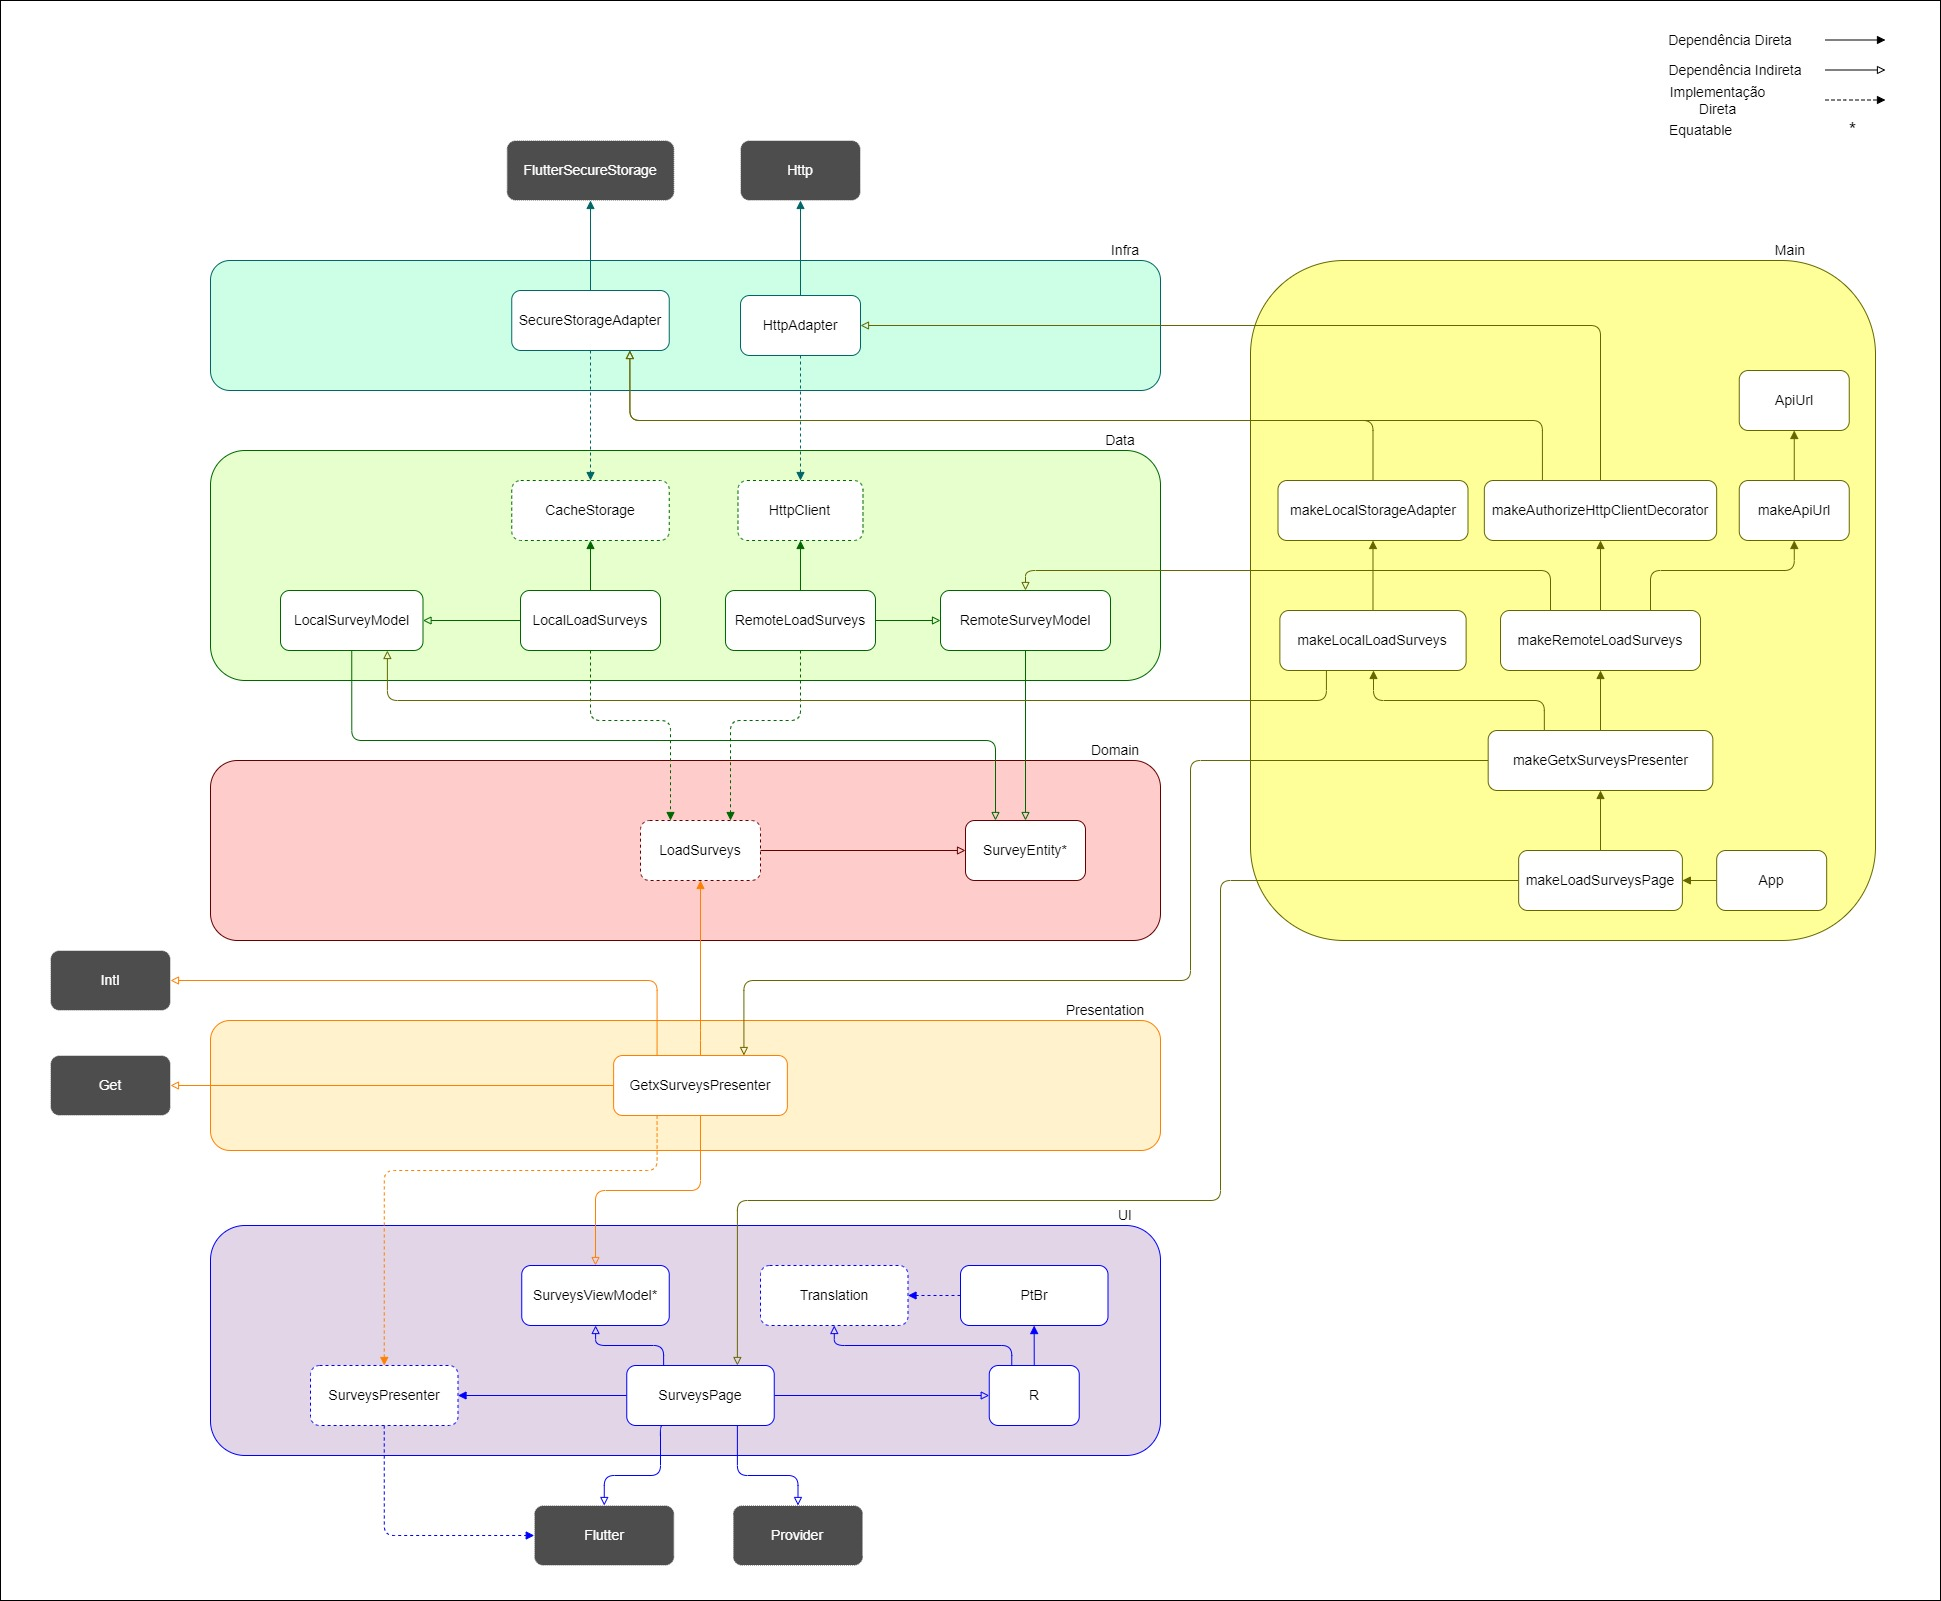
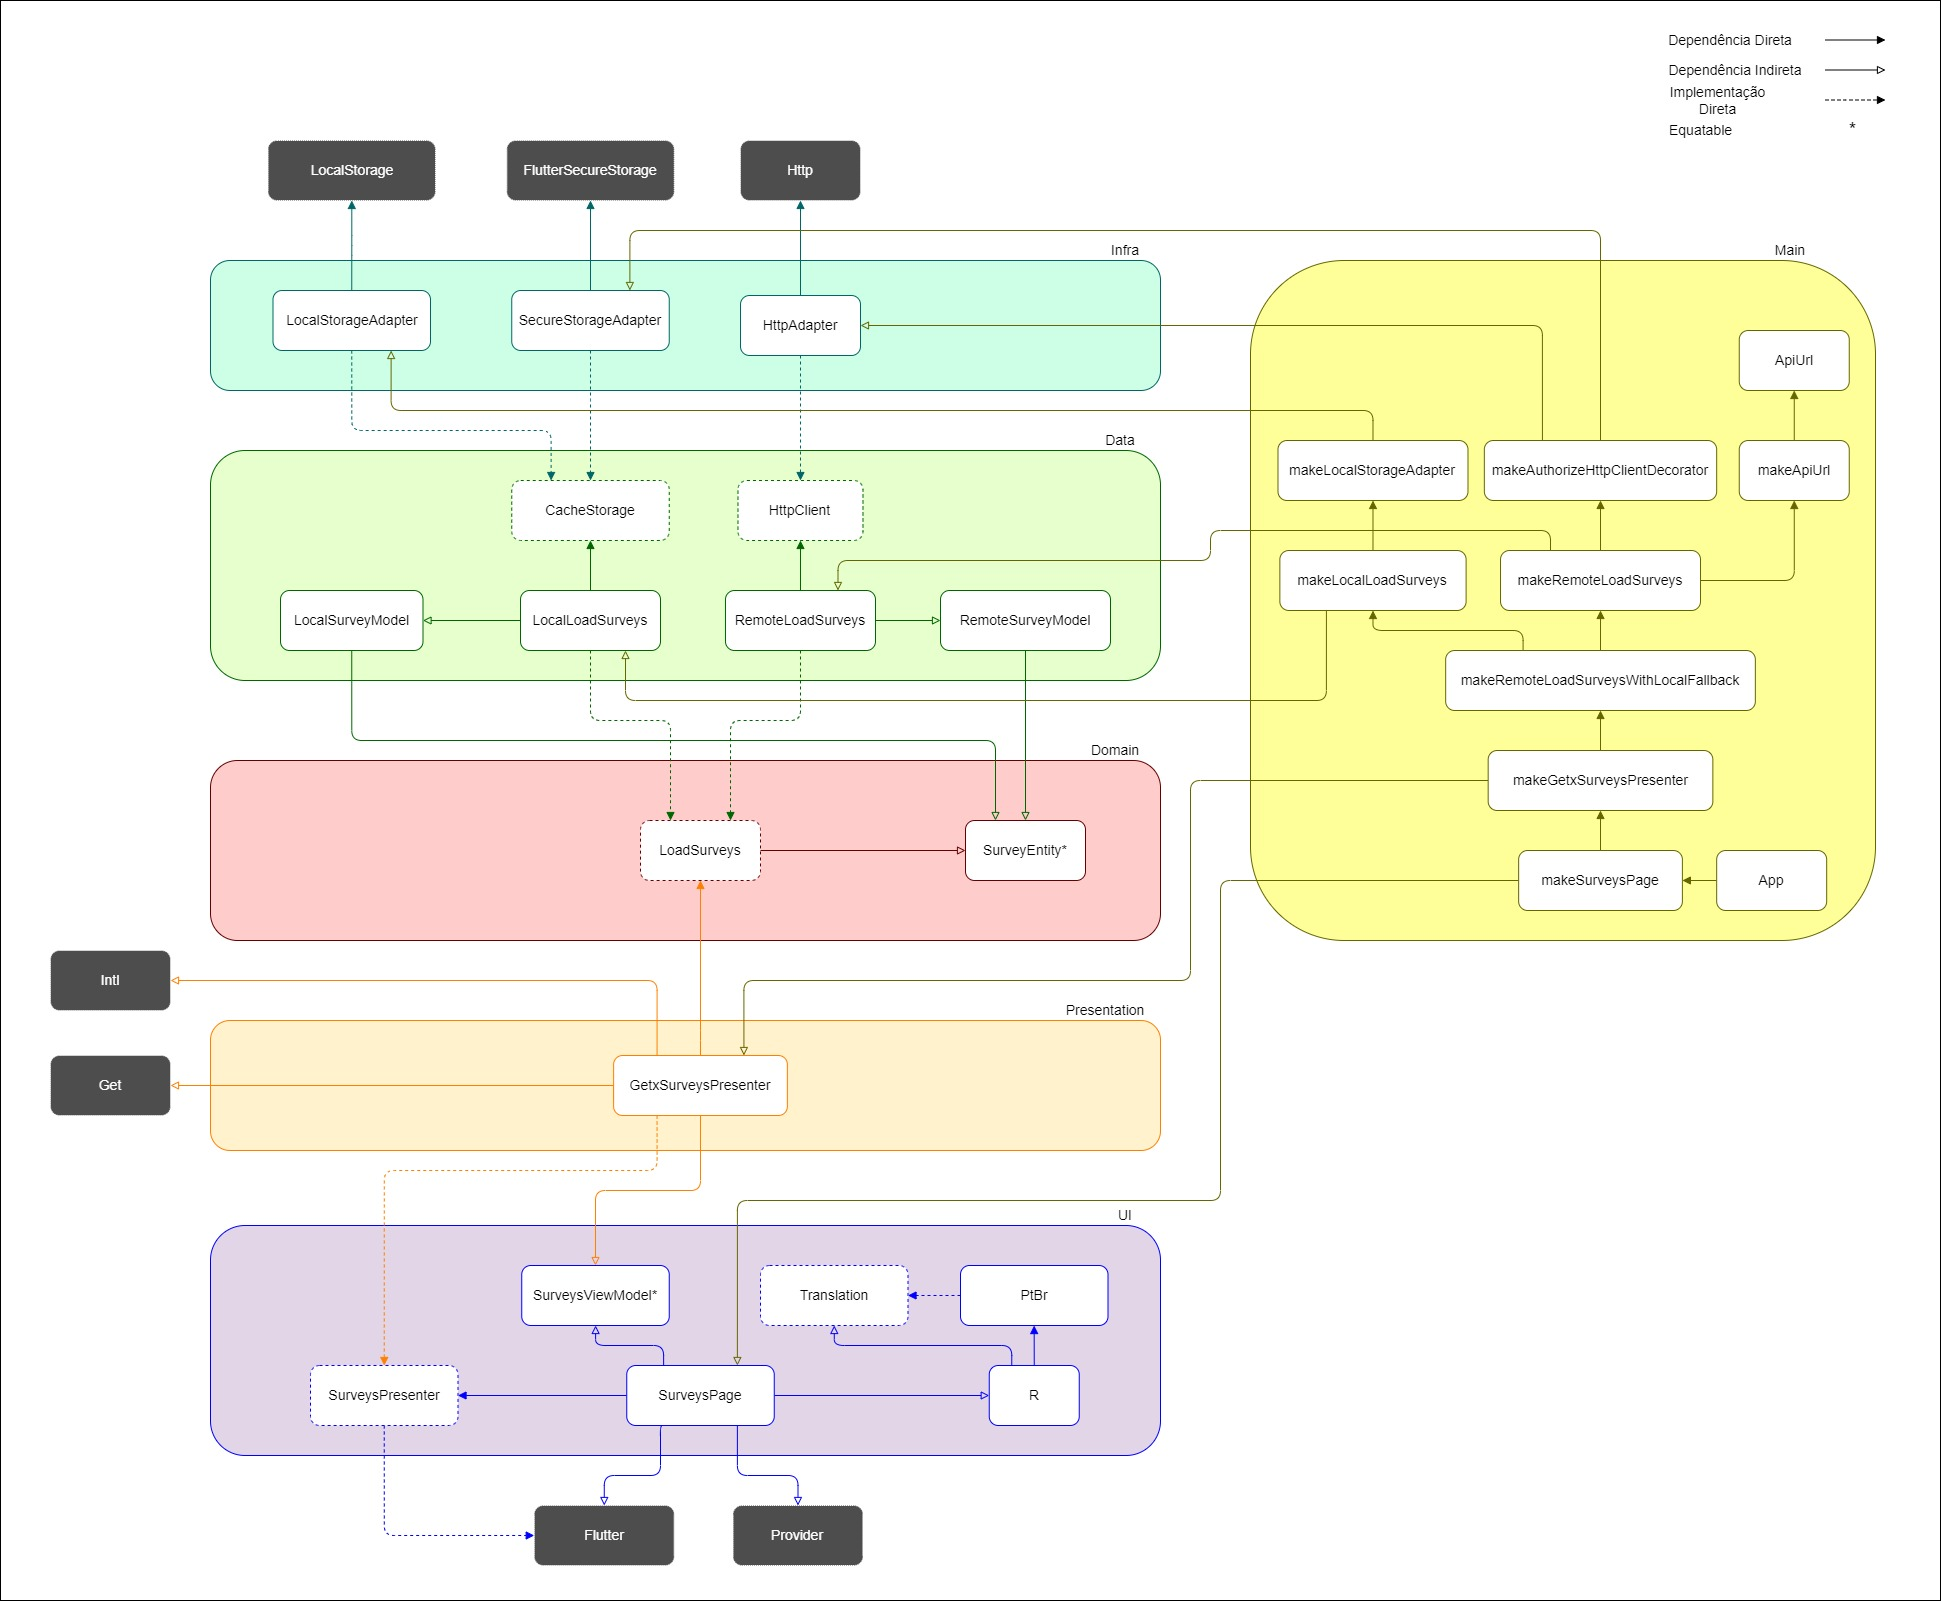
add RemoteLoadSurveysWithLocalFallback factory

Changed region(s): [[0.6491, 0.1874, 0.9583, 0.5621], [0.1236, 0.1562, 0.2473, 0.2186], [0.1236, 0.0625, 0.2473, 0.1249]]

diff --git a/lib/infra/http/http_adapter.dart b/lib/infra/http/http_adapter.dart
@@ -23,11 +23,22 @@ class HttpAdapter implements HttpClient {
 
     final jsonBody = body != null ? jsonEncode(body) : null;
     var response = Response('', 500);
+    Future<Response>? futureResponse;
     try {
       if (method == 'post') {
-        response = await client.post(Uri.parse(url), headers: defaultHeaders, body: jsonBody);
+        futureResponse = client.post(
+          Uri.parse(url), 
+          headers: defaultHeaders, 
+          body: jsonBody
+        );
       } else if (method == 'get') {
-        response = await client.get(Uri.parse(url), headers: defaultHeaders);
+        futureResponse = client.get(
+          Uri.parse(url), 
+          headers: defaultHeaders
+        );
+      }
+      if (futureResponse != null) {
+        response = await futureResponse.timeout(const Duration(seconds: 10));
       }
     } catch (error) {
       throw HttpError.serverError;

diff --git a/test/ui/pages/surveys_page_test.dart b/test/ui/pages/surveys_page_test.dart
@@ -60,8 +60,7 @@ void main() {
     isLoadingController.add(true);
     await tester.pump();
 
-    //expect(find.byType(CircularProgressIndicator), findsOneWidget);
-    expect(find.byType(CircularProgressIndicator), findsWidgets);
+    expect(find.byType(CircularProgressIndicator), findsOneWidget);
   });
 
   testWidgets('3 - Should hide loading', (WidgetTester tester) async {
@@ -72,8 +71,7 @@ void main() {
     isLoadingController.add(false);
     await tester.pump();
 
-    //expect(find.byType(CircularProgressIndicator), findsNothing);
-    expect(find.byType(CircularProgressIndicator), findsOneWidget);
+    expect(find.byType(CircularProgressIndicator), findsNothing);
   });
 
   testWidgets('4 - Should present error if surveysStream fails', (WidgetTester tester) async {

diff --git a/lib/main/factories/usecases/load_surveys_factory.dart b/lib/main/factories/usecases/load_surveys_factory.dart
@@ -1,10 +1,18 @@
 import '../../../domain/usecases/usecases.dart';
 import '../../../data/usecases/usecases.dart';
+import '../../composites/composites.dart';
 import '../factories.dart';
 
-LoadSurveys makeRemoteLoadSurveys() {
-  return RemoteLoadSurveys(
-    url: makeApiUrl('surveys'),
-    httpClient: makeAuthorizeHttpClientDecorator()
-  );
-}
+RemoteLoadSurveys makeRemoteLoadSurveys() => RemoteLoadSurveys(
+  httpClient: makeAuthorizeHttpClientDecorator(),
+  url: makeApiUrl('surveys')
+);
+
+LocalLoadSurveys makeLocalLoadSurveys() => LocalLoadSurveys(
+  cacheStorage: makeLocalStorageAdapter()
+);
+
+LoadSurveys makeRemoteLoadSurveysWithLocalFallback() => RemoteLoadSurveysWithLocalFallback(
+  remote: makeRemoteLoadSurveys(),
+  local: makeLocalLoadSurveys()
+);

diff --git a/lib/infra/cache/local_storage_adapter.dart b/lib/infra/cache/local_storage_adapter.dart
@@ -1,6 +1,6 @@
 import 'package:localstorage/localstorage.dart';
 
-import 'package:fordev/data/cache/cache.dart';
+import '../../data/cache/cache.dart';
 
 class LocalStorageAdapter implements CacheStorage {
   final LocalStorage localStorage;
@@ -17,6 +17,7 @@ class LocalStorageAdapter implements CacheStorage {
   Future<void> delete(String key) async {
     await localStorage.deleteItem(key);
   }
+
   @override
   Future<dynamic> fetch(String key) async {
     return await localStorage.getItem(key);

diff --git a/lib/main/factories/cache/local_storage_adapter_factory.dart b/lib/main/factories/cache/local_storage_adapter_factory.dart
@@ -1,8 +1,8 @@
-import 'package:flutter_secure_storage/flutter_secure_storage.dart';
+import 'package:localstorage/localstorage.dart';
 
 import '../../../infra/cache/cache.dart';
 
-SecureStorageAdapter makeLocalStorageAdapter() {
-  const secureStorage = FlutterSecureStorage();
-  return SecureStorageAdapter(secureStorage: secureStorage);
+LocalStorageAdapter makeLocalStorageAdapter() {
+  final localStorage = LocalStorage('fordev');
+  return LocalStorageAdapter(localStorage: localStorage);
 }

diff --git a/lib/main/factories/usecases/save_current_account_factory.dart b/lib/main/factories/usecases/save_current_account_factory.dart
@@ -1,10 +1,9 @@
-import 'package:fordev/main/factories/cache/cache.dart';
-
 import '../../../domain/usecases/usecases.dart';
 import '../../../data/usecases/usecases.dart';
+import '../cache/cache.dart';
 
 SaveCurrentAccount makeLocalSaveCurrentAccount() {
   return LocalSaveCurrentAccount(
-    saveSecureCacheStorage: makeLocalStorageAdapter()
+    saveSecureCacheStorage: makeSecureStorageAdapter()
   );
 }

diff --git a/lib/main/factories/cache/secure_storage_adapter_factory.dart b/lib/main/factories/cache/secure_storage_adapter_factory.dart
@@ -1,0 +1,8 @@
+import 'package:flutter_secure_storage/flutter_secure_storage.dart';
+
+import '../../../infra/cache/cache.dart';
+
+SecureStorageAdapter makeSecureStorageAdapter() {
+  const secureStorage = FlutterSecureStorage();
+  return SecureStorageAdapter(secureStorage: secureStorage);
+}

diff --git a/lib/main/factories/http/authorize_http_client_decorator_factory.dart b/lib/main/factories/http/authorize_http_client_decorator_factory.dart
@@ -4,7 +4,7 @@ import '../factories.dart';
 
 HttpClient makeAuthorizeHttpClientDecorator() {
   return AuthorizeHttpClientDecorator(
-    fetchSecureCacheStorage: makeLocalStorageAdapter(), 
+    fetchSecureCacheStorage: makeSecureStorageAdapter(), 
     decoratee: makeHttpAdapter()
   );
 }

diff --git a/lib/ui/pages/surveys/surveys_page.dart b/lib/ui/pages/surveys/surveys_page.dart
@@ -61,7 +61,7 @@ class SurveysPage extends StatelessWidget {
                   ),
                 );
               }
-              return const Center(child: CircularProgressIndicator());
+              return const SizedBox();
             }
           );
         }

diff --git a/lib/main/factories/usecases/load_current_account_factory.dart b/lib/main/factories/usecases/load_current_account_factory.dart
@@ -4,6 +4,6 @@ import '../factories.dart';
 
 LoadCurrentAccount makeLocalLoadCurrentAccount() {
   return LocalLoadCurrentAccount(
-    fetchSecureCacheStorage: makeLocalStorageAdapter()
+    fetchSecureCacheStorage: makeSecureStorageAdapter()
   );
 }

diff --git a/lib/main/factories/pages/surveys/surveys_presenter_factory.dart b/lib/main/factories/pages/surveys/surveys_presenter_factory.dart
@@ -4,6 +4,6 @@ import '../../factories.dart';
 
 SurveysPresenter makeGetxSurveysPresenter() {
   return GetxSurveysPresenter(
-    loadSurveys: makeRemoteLoadSurveys(),
+    loadSurveys: makeRemoteLoadSurveysWithLocalFallback(),
   );
 }

diff --git a/lib/main/factories/cache/cache.dart b/lib/main/factories/cache/cache.dart
@@ -1,1 +1,2 @@
 export 'local_storage_adapter_factory.dart';
+export 'secure_storage_adapter_factory.dart';
